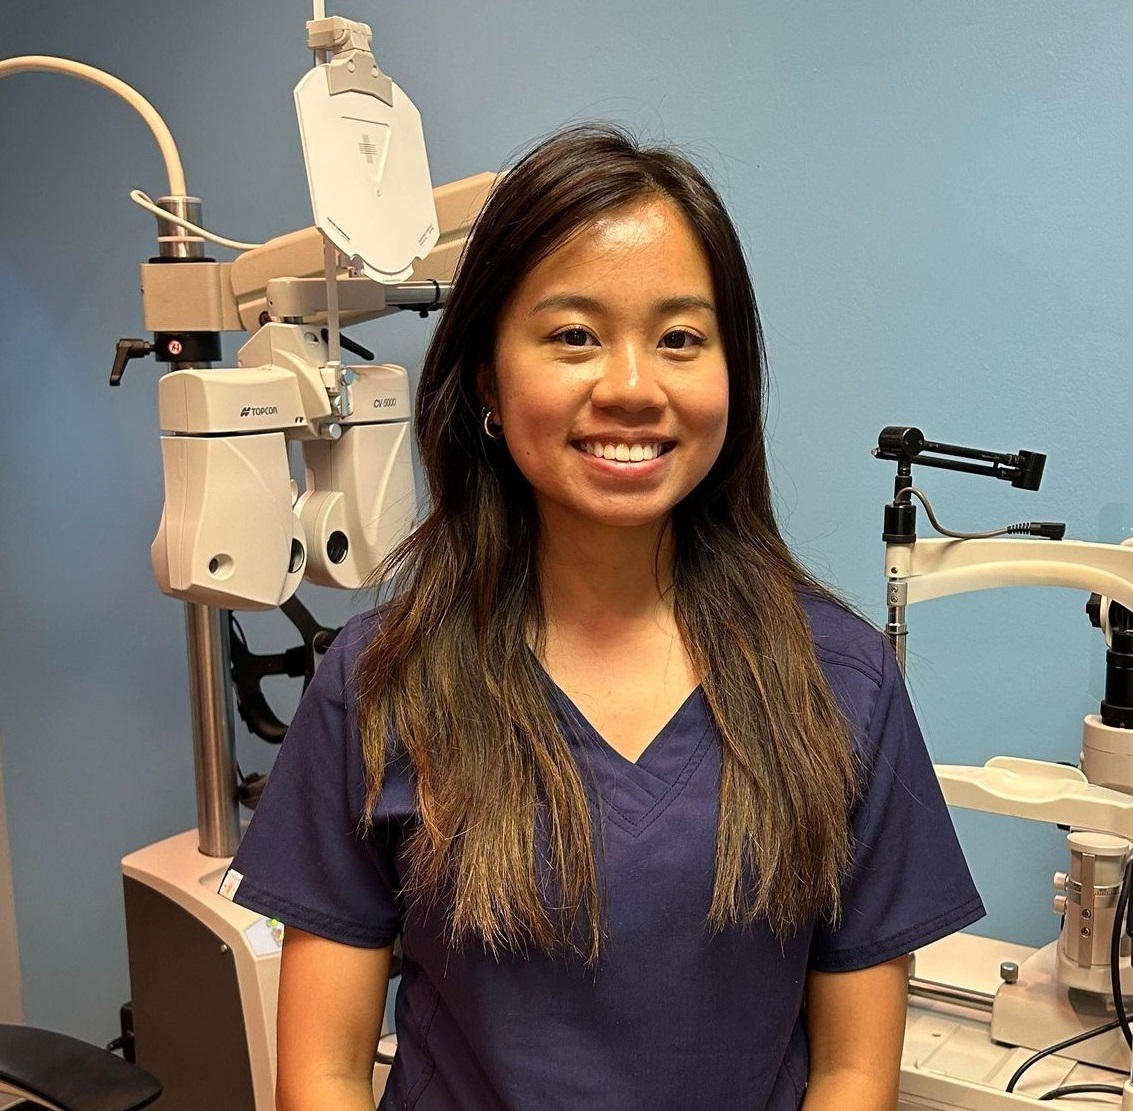
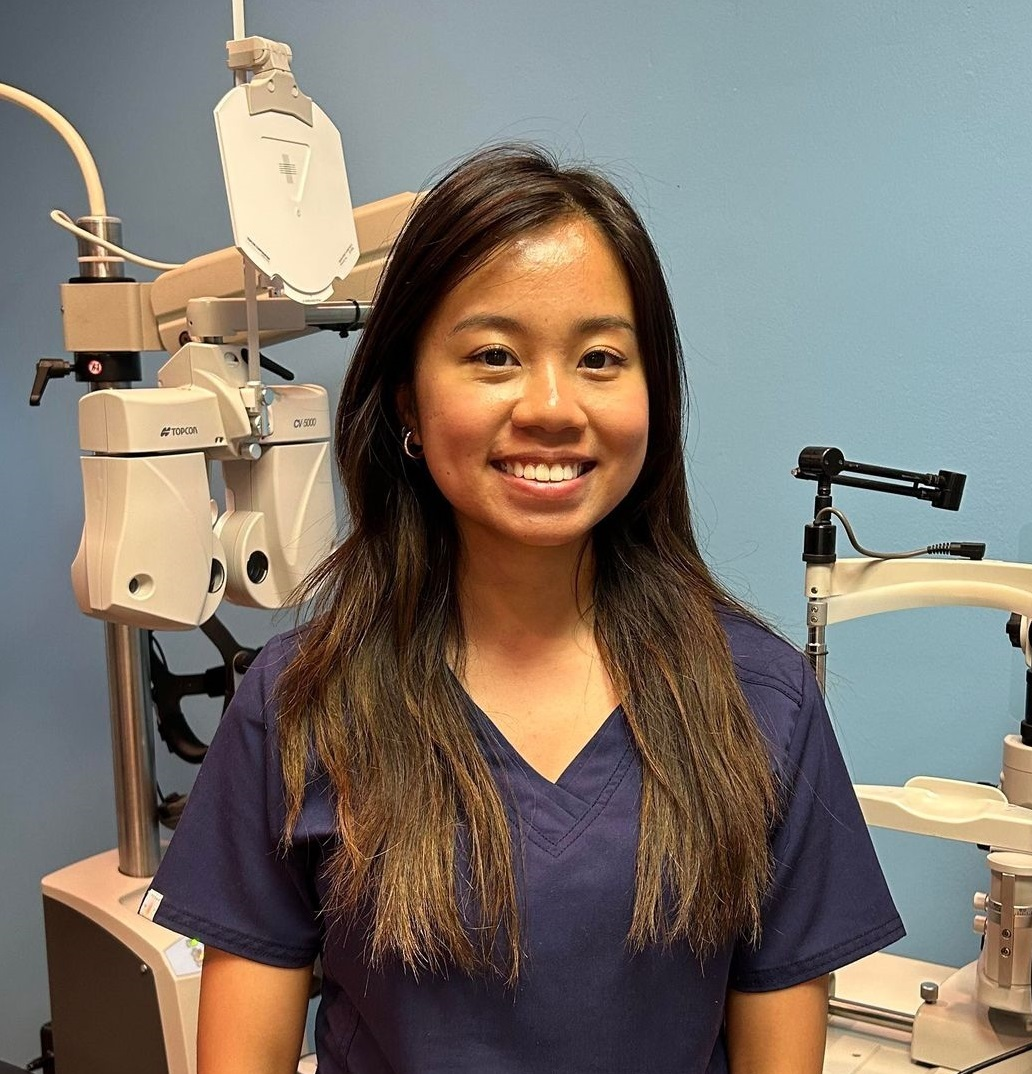
Updating git

diff --git a/clearviewatx/src/components/Services.jsx b/clearviewatx/src/components/Services.jsx
@@ -12,6 +12,13 @@ import EyeMed from '../images/EyeMed_Vision.webp'
 import Avesis from '../images/Avesis.png'
 import BCBS from '../images/BCBS.webp'
 import $ from 'jquery';
+import Envolve from '../images/envolve.jpg'
+import Medicaid from '../images/medicaid.png'
+import Humana from '../images/humana.jpg'
+import Medicare from '../images/Medicare.png'
+import Tricare from '../images/Tricare.png'
+import SuperiorHP from '../images/SuperiorHP.png'
+import Unum from '../images/Unum.png'
 
 function Services() {
 
@@ -143,12 +150,37 @@ function Services() {
                 <img src={EyeMed} className="insurancebg md:w-[60%] lg:w-[50%] h-auto  m-auto" alt="ClearView Vision Austin ATX, Austin Sunset Valley Eye Doctor"/>
               </div>
           </div>
-          <div className='grid grid-cols-2 items-center justify-between gap-x-16 mt-10 pb-10'>
+          <div className='grid grid-cols-3 items-center justify-between gap-x-16 mt-10 pb-10'>
+              <div>
+                <img src={Envolve} className="insurancebg md:w-[80%] lg:w-[60%] h-auto m-auto" alt="ClearView Vision Austin ATX, Austin Sunset Valley Eye Doctor"/>
+              </div>
+              <div>
+                <img src={Medicaid} className="insurancebg md:w-[100%] lg:w-[70%] h-auto m-auto" alt="ClearView Vision Austin ATX, Austin Sunset Valley Eye Doctor"/>
+              </div>
+              <div>
+                <img src={Humana} className="insurancebg md:w-[80%] lg:w-[50%] h-auto  m-auto" alt="ClearView Vision Austin ATX, Austin Sunset Valley Eye Doctor"/>
+              </div>
+          </div>
+          <div className='grid grid-cols-3 items-center justify-between gap-x-16 mt-10 pb-10'>
               <div>
                 <img src={Avesis} className="insurancebg m-auto" alt="ClearView Vision Austin ATX, Austin Sunset Valley Eye Doctor"/>
               </div>
               <div>
                 <img src={BCBS} className="insurancebg scale-125 m-auto" alt="ClearView Vision Austin ATX, Austin Sunset Valley Eye Doctor"/>
+              </div>
+              <div>
+                <img src={Medicare} className="insurancebg scale-150 m-auto" alt="ClearView Vision Austin ATX, Austin Sunset Valley Eye Doctor"/>
+              </div>
+          </div>
+          <div className='grid grid-cols-3 items-center justify-between gap-x-16 mt-10 pb-10'>
+              <div>
+                <img src={Tricare} className="insurancebg scale-90 m-auto" alt="ClearView Vision Austin ATX, Austin Sunset Valley Eye Doctor"/>
+              </div>
+              <div>
+                <img src={SuperiorHP} className="insurancebg scale-150 m-auto" alt="ClearView Vision Austin ATX, Austin Sunset Valley Eye Doctor"/>
+              </div>
+              <div>
+                <img src={Unum} className="insurancebg scale-150 m-auto" alt="ClearView Vision Austin ATX, Austin Sunset Valley Eye Doctor"/>
               </div>
           </div>
         </div>
@@ -179,6 +211,18 @@ function Services() {
               </div>
               <div>
                 <img src={BCBS} className="insurancebg scale-125 m-auto" alt="ClearView Vision Austin ATX, Austin Sunset Valley Eye Doctor"/>
+              </div>
+              <div>
+                <img src={Medicare} className="insurancebg scale-125 m-auto" alt="ClearView Vision Austin ATX, Austin Sunset Valley Eye Doctor"/>
+              </div>
+              <div>
+                <img src={Tricare} className="insurancebg  m-auto" alt="ClearView Vision Austin ATX, Austin Sunset Valley Eye Doctor"/>
+              </div>
+              <div>
+                <img src={SuperiorHP} className="insurancebg scale-150 m-auto" alt="ClearView Vision Austin ATX, Austin Sunset Valley Eye Doctor"/>
+              </div>
+              <div>
+                <img src={Unum} className="insurancebg scale-150 m-auto" alt="ClearView Vision Austin ATX, Austin Sunset Valley Eye Doctor"/>
               </div>
           </div>
         </div>

diff --git a/clearviewatx/src/components/About.jsx b/clearviewatx/src/components/About.jsx
@@ -70,7 +70,18 @@ function About() {
           <img class="doctorImage lg:h-80 lg:w-80 md:h-56 md:w-56 h-40 w-40 my-auto mx-auto md:mb-0 mb-10" src={require("../images/ClearViewVisionAustinTexas-technician.jpg")} alt="ClearView Vision Austin ATX, Austin Sunset Valley Eye Doctor"></img>
           <div className="my-auto">
             <h1 className="poppins font-bold doctorName text-center lg:text-3xl md:text-2xl text-xl mb-4 mt-0 lg:mt-6">
-              Amy
+              Amy N.
+            </h1>
+            <p className="poppins lg:text-xl md:text-lg text-center text-base doctorBio">
+              Optometric Technician
+            </p>
+          </div>
+        </div>
+        <div className="flex flex-col justify-center lg:px-14 lg:py-20 md:px-10 md:py-16 px-8 py-12">
+          <img class="doctorImage lg:h-80 lg:w-80 md:h-56 md:w-56 h-40 w-40 my-auto mx-auto md:mb-0 mb-10" src={require("../images/ClearViewVisionAustinTexas-technician2.jpg")} alt="ClearView Vision Austin ATX, Austin Sunset Valley Eye Doctor"></img>
+          <div className="my-auto">
+            <h1 className="poppins font-bold doctorName text-center lg:text-3xl md:text-2xl text-xl mb-4 mt-0 lg:mt-6">
+              Viviane H.
             </h1>
             <p className="poppins lg:text-xl md:text-lg text-center text-base doctorBio">
               Optometric Technician

diff --git a/clearviewatx/src/components/Booking.jsx b/clearviewatx/src/components/Booking.jsx
@@ -15,7 +15,7 @@ function Booking() {
   return (
     <>
         {/* Banner */}
-        <div className="flex justify-center items-center mx-auto banner hind lg:h-96 lg:text-7xl md:h-64 md:text-4xl h-40 text-2xl" id="topsection">
+        <div className="flex justify-center items-center mx-auto banner hind lg:h-84 lg:text-5xl md:h-64 md:text-2xl h-40 text-xl" id="topsection">
             Schedule An Appointment
         </div>
 
